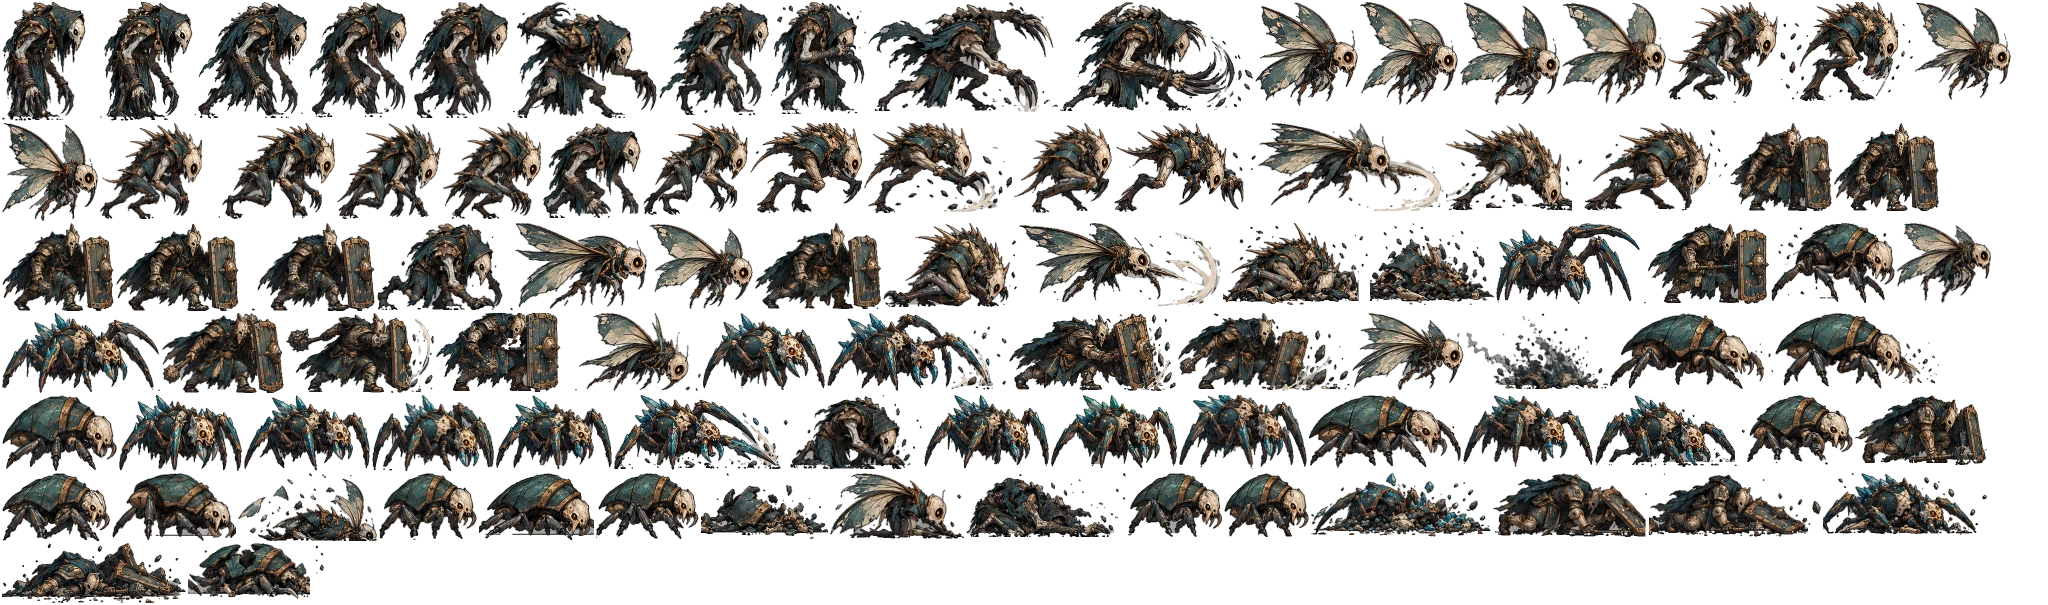
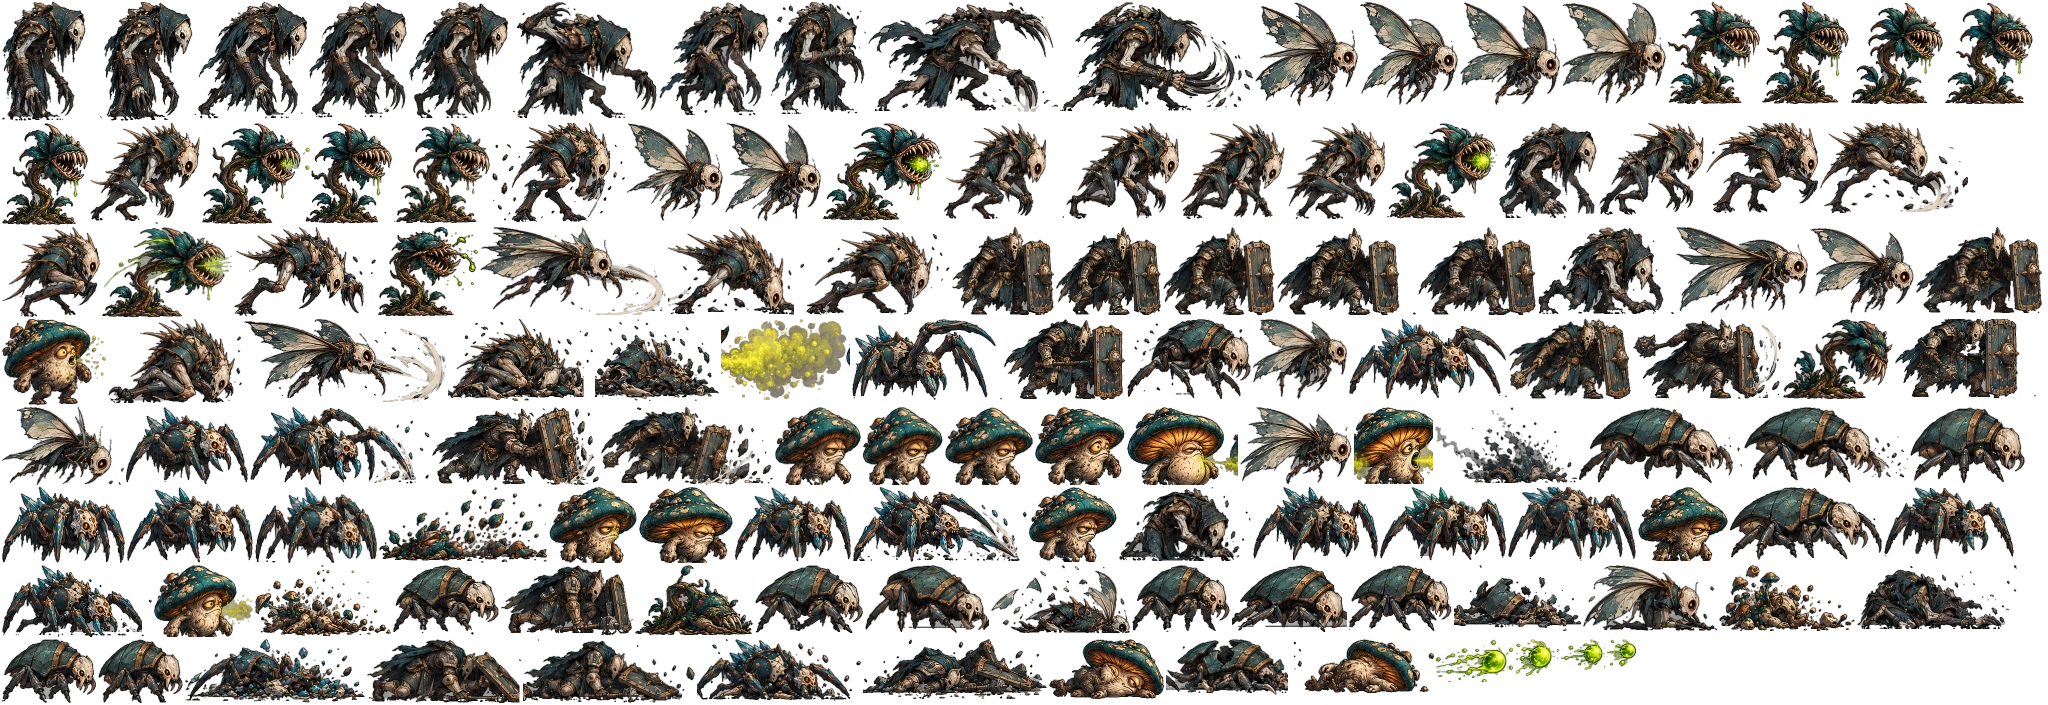
Spitter and walking shroom drawn frame by frame, with their glob and spore cloud
The spitter sways, gathers its spit while it aims and spits; the shroom swells through its
wind-up and breathes its cloud. Their projectiles are drawn from the sheet too. Creatures can now
have their own frame-choosing brain in js/art_anims.js. Also keeps the owner's ten sheets for the
remaining creatures.

diff --git a/duskwell/js/creature_anims_meta.js b/duskwell/js/creature_anims_meta.js
@@ -1,4 +1,5 @@
 'use strict';
 // made by tools/sprites/cut_anims.py: the animation frames of the creatures drawn by the owner, in art/creatures/anim.webp
-// [x, y, w, h, ax, ay]: (ax, ay) is the ground point under the body
-const CREATURE_ANIMS = {"husk":{"idle":[[2,2,100,119,40.5,118.5],[104,2,92,119,42.5,118.5]],"walk":[[198,2,109,117,60.5,116.5],[309,2,98,116,52.0,116.0],[409,2,106,116,52.0,116.5],[659,2,110,114,63.0,114.0]],"atk":[[517,2,140,116,59.5,116.0],[1060,2,193,109,80.5,109.0],[868,2,190,110,93.5,108.5],[543,123,98,95,52.5,94.5]],"hurt":[[771,2,95,112,47.5,112.5]],"death":[[377,223,136,87,73.0,87.0],[790,395,132,74,66.0,74.5],[966,473,160,64,54.5,63.5],[1466,313,142,76,69.0,76.5]]},"crawler":{"idle":[[1747,395,106,70,52.5,68.5],[2,473,108,68,55.0,68.5]],"walk":[[596,473,103,66,53.0,66.5],[379,473,98,67,50.5,67.0],[1128,473,94,64,49.0,64.0],[1224,473,85,64,43.0,64.0]],"atk":[[1309,395,152,73,69.0,72.0],[1610,313,163,76,76.0,74.5],[1775,313,164,76,65.0,74.5],[2,395,115,76,57.5,74.5]],"hurt":[[1771,223,124,80,72.0,80.0]],"death":[[112,473,124,68,62.0,66.5],[479,473,115,67,62.0,66.0],[188,543,136,56,63.0,55.5],[701,473,127,66,49.0,63.5]]},"flyer":{"idle":[[1562,2,104,102,54.0,107.5],[1360,2,98,103,48.5,107.5],[1255,2,103,104,51.0,107.5],[1460,2,100,103,47.0,106.5],[1915,2,96,98,48.0,104.0],[2,123,96,98,47.0,101.0]],"walk":[[1562,2,104,102,54.0,107.5],[1360,2,98,103,48.5,107.5],[1255,2,103,104,51.0,107.5],[1460,2,100,103,47.0,106.5],[1915,2,96,98,48.0,104.0],[2,123,96,98,47.0,101.0]],"atk":[[515,223,132,86,65.5,90.0],[1258,123,186,88,73.5,88.5],[1019,223,202,83,75.2,83.0],[649,223,104,86,49.5,90.0]],"hurt":[[1897,223,94,80,45.5,84.0]],"death":[[1352,313,112,77,53.5,80.5],[579,313,122,78,53.5,82.0],[830,473,134,66,58.5,66.0],[238,473,139,68,109.0,69.0]]},"hopper":{"idle":[[1668,2,110,101,65.5,98.5],[100,123,120,96,63.5,97.0]],"walk":[[222,123,113,96,69.5,97.0],[643,123,105,92,64.5,93.0],[337,123,104,96,64.0,97.0],[443,123,98,96,58.5,97.0]],"atk":[[750,123,112,90,68.5,91.5],[1114,123,142,89,71.0,90.5],[864,123,148,90,64.0,91.5],[1446,123,136,88,67.5,87.5],[1014,123,98,90,61.0,90.0]],"hurt":[[1780,2,133,99,76.0,100.5]],"death":[[1584,123,144,88,79.5,89.5],[883,223,134,84,78.0,85.0],[1223,223,145,82,71.0,80.0],[1370,223,124,82,49.5,79.5]]},"spider":{"idle":[[119,395,123,76,60.0,77.0],[703,313,122,78,58.5,77.0]],"walk":[[924,395,125,74,61.0,72.5],[244,395,126,76,61.5,74.5],[1051,395,126,74,64.0,73.5],[496,395,116,75,56.5,74.0]],"atk":[[1496,223,150,81,68.0,81.0],[2,313,158,80,76.0,78.0],[827,313,180,78,70.5,76.0],[614,395,174,75,68.5,74.0],[372,395,122,76,64.0,76.0]],"hurt":[[1179,395,128,74,61.5,73.0]],"death":[[1463,395,130,72,60.0,70.5],[1595,395,150,72,61.0,71.0],[1823,473,164,62,66.0,60.0],[1311,473,180,64,74.5,62.0]]},"warden":{"idle":[[1730,123,102,88,58.0,87.5],[1834,123,105,88,61.5,87.5]],"walk":[[2,223,112,88,64.5,87.5],[116,223,139,88,71.0,87.5],[755,223,126,86,74.0,86.5],[257,223,118,88,67.5,87.5]],"atk":[[162,313,122,80,68.5,80.0],[286,313,148,80,75.5,80.0],[1009,313,167,78,84.0,77.0],[1178,313,172,78,68.0,76.5],[1648,223,121,81,67.0,80.0]],"hurt":[[436,313,141,79,70.5,78.0]],"death":[[1855,395,132,70,71.5,68.0],[1493,473,154,64,72.0,64.0],[1649,473,172,64,69.0,61.5],[2,543,184,60,96.5,57.5]]}};
+// [x, y, w, h, ax, ay]: (ax, ay) is the ground point under the body. CREATURE_EXTRAS: their projectiles, drawn on their own, [x, y, w, h]
+const CREATURE_ANIMS = {"husk":{"idle":[[2,2,100,119,40.5,118.5],[104,2,92,119,42.5,118.5]],"walk":[[198,2,109,117,60.5,116.5],[309,2,98,116,52.0,116.0],[409,2,106,116,52.0,116.5],[659,2,110,114,63.0,114.0]],"atk":[[517,2,140,116,59.5,116.0],[1060,2,193,109,80.5,109.0],[868,2,190,110,93.5,108.5],[1499,123,98,95,52.5,94.5]],"hurt":[[771,2,95,112,47.5,112.5]],"death":[[1538,227,136,87,73.0,87.0],[1119,487,132,74,66.0,74.5],[1857,565,160,64,54.5,63.5],[1435,407,142,76,69.0,76.5]]},"crawler":{"idle":[[393,565,106,70,52.5,68.5],[755,565,108,68,55.0,68.5]],"walk":[[1349,565,103,66,53.0,66.5],[1132,565,98,67,50.5,67.0],[2,639,94,64,49.0,64.0],[98,639,85,64,43.0,64.0]],"atk":[[1730,487,152,73,69.0,72.0],[1579,407,163,76,76.0,74.5],[1744,407,164,76,65.0,74.5],[1910,407,115,76,57.5,74.5]],"hurt":[[1127,319,124,80,72.0,80.0]],"death":[[865,565,124,68,62.0,66.5],[1232,565,115,67,62.0,66.0],[1166,639,136,56,63.0,55.5],[1454,565,127,66,49.0,63.5]]},"flyer":{"idle":[[1562,2,104,102,54.0,107.5],[1360,2,98,103,48.5,107.5],[1255,2,103,104,51.0,107.5],[1460,2,100,103,47.0,106.5],[627,123,96,98,48.0,104.0],[725,123,96,98,47.0,101.0]],"walk":[[1562,2,104,102,54.0,107.5],[1360,2,98,103,48.5,107.5],[1255,2,103,104,51.0,107.5],[1460,2,100,103,47.0,106.5],[627,123,96,98,48.0,104.0],[725,123,96,98,47.0,101.0]],"atk":[[1676,227,132,86,65.5,90.0],[480,227,186,88,73.5,88.5],[244,319,202,83,75.2,83.0],[1810,227,104,86,49.5,90.0]],"hurt":[[1253,319,94,80,45.5,84.0]],"death":[[1240,407,112,77,53.5,80.5],[2,407,122,78,53.5,82.0],[1583,565,134,66,58.5,66.0],[991,565,139,68,109.0,69.0]]},"hopper":{"idle":[[90,123,110,101,65.5,98.5],[944,123,120,96,63.5,97.0]],"walk":[[1066,123,113,96,69.5,97.0],[1599,123,105,92,64.5,93.0],[1181,123,104,96,64.0,97.0],[1287,123,98,96,58.5,97.0]],"atk":[[1706,123,112,90,68.5,91.5],[234,227,142,89,71.0,90.5],[1820,123,148,90,64.0,91.5],[668,227,136,88,67.5,87.5],[2,227,98,90,61.0,90.0]],"hurt":[[492,123,133,99,76.0,100.5]],"death":[[806,227,144,88,79.5,89.5],[108,319,134,84,78.0,85.0],[448,319,145,82,71.0,80.0],[595,319,124,82,49.5,79.5]]},"spider":{"idle":[[2,487,123,76,60.0,77.0],[126,407,122,78,58.5,77.0]],"walk":[[1253,487,125,74,61.0,72.5],[127,487,126,76,61.5,74.5],[1380,487,126,74,64.0,73.5],[735,487,116,75,56.5,74.0]],"atk":[[852,319,150,81,68.0,81.0],[1349,319,158,80,76.0,78.0],[250,407,180,78,70.5,76.0],[853,487,174,75,68.5,74.0],[255,487,122,76,64.0,76.0]],"hurt":[[1508,487,128,74,61.5,73.0]],"death":[[1884,487,130,72,60.0,70.5],[2,565,150,72,61.0,71.0],[697,639,164,62,66.0,60.0],[185,639,180,64,74.5,62.0]]},"warden":{"idle":[[952,227,102,88,58.0,87.5],[1056,227,105,88,61.5,87.5]],"walk":[[1163,227,112,88,64.5,87.5],[1277,227,139,88,71.0,87.5],[1916,227,126,86,74.0,86.5],[1418,227,118,88,67.5,87.5]],"atk":[[1509,319,122,80,68.5,80.0],[1633,319,148,80,75.5,80.0],[432,407,167,78,84.0,77.0],[601,407,172,78,68.0,76.5],[1004,319,121,81,67.0,80.0]],"hurt":[[1895,319,141,79,70.5,78.0]],"death":[[501,565,132,70,71.5,68.0],[367,639,154,64,72.0,64.0],[523,639,172,64,69.0,61.5],[863,639,184,60,96.5,57.5]]},"spitter":{"idle":[[1668,2,92,102,37.0,101.0],[1762,2,87,102,37.5,101.0]],"walk":[[1851,2,92,102,37.0,101.0],[394,123,96,100,41.5,99.5],[1945,2,88,102,39.5,101.0],[2,123,86,102,37.0,101.0]],"atk":[[202,123,99,101,33.5,100.0],[1387,123,110,96,36.5,94.5],[823,123,119,98,38.5,96.0],[102,227,130,90,38.0,90.0],[303,123,89,101,39.0,99.0]],"hurt":[[378,227,100,89,35.0,88.5]],"death":[[1783,319,110,80,40.0,80.0],[635,565,118,70,62.0,69.5],[379,487,168,76,77.5,73.5]]},"shroom":{"idle":[[549,487,88,76,46.0,73.0],[775,407,86,78,44.0,75.0]],"walk":[[863,407,80,78,39.0,75.0],[945,407,88,78,44.0,75.0],[1638,487,90,74,45.5,71.5],[1029,487,88,75,44.0,72.5]],"atk":[[1035,407,90,78,42.0,75.5],[639,487,94,76,46.5,73.5],[1127,407,111,78,48.5,75.5],[1354,407,79,77,39.5,74.5],[154,565,99,72,44.0,70.0]],"hurt":[[2,319,104,86,45.0,84.5]],"death":[[1049,639,115,60,68.0,59.5],[1304,639,130,54,68.5,52.0],[1719,565,136,66,47.0,63.0],[255,565,136,71,38.0,68.5]]}};
+const CREATURE_EXTRAS = {"spit_0":[1557,639,48,32],"spit_1":[1516,639,39,38],"spit_2":[1607,639,30,28],"spit_fly":[1436,639,78,43],"spores":[721,319,129,81]};

diff --git a/duskwell/js/art_anims.js b/duskwell/js/art_anims.js
@@ -18,7 +18,27 @@ const AnimArt = (() => {
     hopper: { hm: 1.75, wm: 3.0, stride: 9, wind: 0.28, leap: true },
     spider: { hm: 2.15, wm: 2.7, stride: 8, wind: 0.3, leap: true },
     warden: { hm: 1.5, wm: 3.0, stride: 8, wind: 0.55, bash: 0.3 },
+    // from here on each creature has its own brain(e, t, d, A): the frame for what its code is doing (see the helpers below)
+    spitter: { hm: 2.1, wm: 3.4, brain(e, t, d, A) {                 // rooted: it sways; gathers its spit while e.tele counts down, then spits
+      if (d.tele > 0 && !(e.tele > 0)) d.fired = t; d.tele = e.tele;
+      if (d.hurtT > 0) return A.hurt[0];
+      if (e.tele > 0) return seq(A.atk.slice(0, 3), 1 - e.tele / 0.45);
+      const s = since(d.fired, t); if (s < 0.25) return A.atk[3]; if (s < 0.5) return A.atk[4];
+      return loop(A.idle.concat(A.walk), t, 6, (e.x || 0) * 0.013);
+    } },
+    shroom: { hm: 1.85, wm: 2.9, stride: 8, brain(e, t, d, A) {      // swells through its anticipation, breathes its spores after it
+      if (d.hurtT > 0) return A.hurt[0];
+      if (e.currentState === 'anticipation') return seq(A.atk.slice(0, 3), (e.stateT || 0) / 0.5);
+      const s = since(d.fired, t); if (s < 0.4) return A.atk[3]; if (s < 0.65) return A.atk[4];
+      return move(e, d, A, 8);
+    } },
   };
+  // helpers for the brains: a frame along a list by progress k (0..1), a looping list, the time since an event, walking or standing
+  const seq = (list, k) => list[Math.max(0, Math.min(list.length - 1, Math.floor(k * list.length)))];
+  const loop = (list, t, fps, ph) => list[Math.floor(t * fps + (ph || 0)) % list.length];
+  const since = (at, t) => (at == null ? 1e9 : t - at);
+  const move = (e, d, A, stride) => (e.isDummy ? (Math.abs(e.vx || 0) > 8 ? loop(A.walk, d.t, 8) : loop(A.idle, d.t, 2.2))
+    : Math.abs(e.vx || 0) > 8 ? A.walk[Math.floor(d.dist / stride) % A.walk.length] : loop(A.idle, d.t, 2.2, (e.x || 0) * 0.01));
   const ALIAS = { brood_child: 'spider' };
   const scaleOf = (kind, e) => { const c = CFG[kind], f = CREATURE_ANIMS[kind].idle[0]; return Math.min(e.h * c.hm / f[3], e.w * c.wm / f[2]); };
   // the attack row: the wind-up (two frames when the row has five), the strike (two), the recovery (the last)
@@ -61,8 +81,11 @@ const AnimArt = (() => {
     const dt = Math.max(0, Math.min(0.1, t - d.t)); d.t = t;
     d.dist += Math.abs(e.cx - d.x); d.x = e.cx;
     if (e.flash > 0.05 && !e.isDummy) { d.hurtT = 0.18; d.leapT = null; } else d.hurtT -= dt;
-    if (e.currentState !== d.st) { if (d.st === 'anticipation' && c.leap) d.leapT = t; d.st = e.currentState; }   // it has just left the ground to strike
-    const f = d.f = pick(kind, e, t), sc = scaleOf(kind, e), idle = CREATURE_ANIMS[kind].idle[0];
+    if (e.currentState !== d.st) {                                    // a change of state: leaving the wind-up means the blow (or the leap) has come
+      if (d.st === 'anticipation' && e.currentState !== 'recoil') { d.fired = t; if (c.leap) d.leapT = t; }
+      d.prevSt = d.st; d.st = e.currentState; d.stAt = t;
+    }
+    const f = d.f = c.brain ? c.brain(e, t, d, CREATURE_ANIMS[kind]) : pick(kind, e, t), sc = scaleOf(kind, e), idle = CREATURE_ANIMS[kind].idle[0];
     const gy = c.fly ? e.cy + (idle[5] - idle[3] * 0.5) * sc : e.y + e.h + 1;
     if (!c.fly && !e.isDummy && !e.hanging) Pixel.shadow(g, e.cx, e.y + e.h, Math.min(e.w * 1.1, idle[2] * sc * 0.4));
     if (kind === 'spider' && e.hanging) {                                                         // the thread it hangs from
@@ -102,6 +125,25 @@ const AnimArt = (() => {
     }
     const oldFx = Art.drawFx;
     Art.drawFx = function (g, f) { if (f.type === 'corpse') return corpse(g, f); return oldFx(g, f); };
+    // their projectiles: the spitter's glob (it rolls through three frames along its flight), the shroom's cloud of spores
+    const oldProj = Art.drawProj;
+    Art.drawProj = function (g, p, t) {
+      const X = typeof CREATURE_EXTRAS !== 'undefined' ? CREATURE_EXTRAS : {};
+      if (ready() && p.kind === 'glob' && X.spit_0) {
+        const r = X['spit_' + (Math.floor(p.t * 12) % 3)], k = (p.r * 2.9) / r[3];
+        g.save(); g.translate(p.x, p.y); g.rotate(Math.atan2(p.vy || 0, p.vx || 1)); g.imageSmoothingEnabled = true;
+        bloom(g, 0, 0, p.r * 3, '#b6ef6a', 0.25);
+        g.drawImage(img, r[0], r[1], r[2], r[3], -r[2] * k * 0.62, -r[3] * k / 2, r[2] * k, r[3] * k);
+        g.restore(); return;
+      }
+      if (ready() && p.kind === 'cloud' && X.spores) {
+        const r = X.spores, k = clamp(p.t / 0.25, 0.3, 1), a = clamp(p.life / 0.4, 0, 1) * 0.9, w = p.w * 1.35 * k, h = p.h * 1.4 * k;
+        g.save(); g.translate(p.x, p.y); if ((p.vx || 0) < 0) g.scale(-1, 1); g.globalAlpha *= a; g.imageSmoothingEnabled = true;
+        g.drawImage(img, r[0], r[1], r[2], r[3], -w / 2, -h / 2, w, h);
+        g.restore(); return;
+      }
+      return oldProj(g, p, t);
+    };
   }
   install();
   // which part of the sheet a frame comes from ('walk', 'atk'...) and its number there: for the tests

diff --git a/duskwell/tools/sprites/cut_anims.py b/duskwell/tools/sprites/cut_anims.py
@@ -17,7 +17,7 @@ from cutsheet import segment
 cfg = json.load(open(os.path.join(HERE, 'creature_anims.json')))
 SPLIT = {1: lambda n: (n // 2, n - n // 2)}
 
-def frames_of_row(im, fg, y0, y1, N, cuts=None):
+def frames_of_row(im, fg, y0, y1, N, cuts=None, base=False):
     band = fg[y0:y1].copy(); sub = im[y0:y1]
     H, W = band.shape
     hsv = cv2.cvtColor(sub, cv2.COLOR_BGR2HSV)
@@ -80,7 +80,7 @@ def frames_of_row(im, fg, y0, y1, N, cuts=None):
         x0, x1, yy0, yy1 = xs2.min(), xs2.max() + 1, ys.min(), ys.max() + 1
         rgba = np.dstack([sub[yy0:yy1, x0:x1], (alpha[yy0:yy1, x0:x1] * m[yy0:yy1, x0:x1] * 255).astype(np.uint8)])
         # anchor: under the middle of the torso (the upper part of the body), on the ground line
-        bys, bxs = np.where(bm[:max(1, gl - int((gl - ys.min()) * 0.35))])
+        bys, bxs = np.where(bm[max(0, gl - int((gl - ys.min()) * 0.18)):gl + 1] if base else bm[:max(1, gl - int((gl - ys.min()) * 0.35))])
         ax = (np.median(bxs) if len(bxs) else (x0 + x1) / 2) - x0
         out.append((rgba, float(ax), float(gl - yy0)))
     return out
@@ -88,8 +88,9 @@ def frames_of_row(im, fg, y0, y1, N, cuts=None):
 frames = {}
 for path, mons in cfg['sheets'].items():
     im = cv2.imread(os.path.join(ROOT, path)); fg = segment(im, 20)
+    for (a, b, c, d) in cfg.get('off', {}).get(path, []): fg[b:d, a:c] = False
     for kind, rows in mons.items():
-        rs = [frames_of_row(im, fg, y0, y1, n, cfg['cuts'].get('%s:%d' % (kind, r))) for r, (y0, y1, n) in enumerate(rows)]
+        rs = [frames_of_row(im, fg, y0, y1, n, cfg['cuts'].get('%s:%d' % (kind, r)), kind in cfg.get('anchor_base', [])) for r, (y0, y1, n) in enumerate(rows)]
         r1, r2, r3 = rs
         if kind == 'flyer': anim = {'idle': r1, 'walk': r1}
         else: anim = {'idle': r1[:2], 'walk': r1[2:]}
@@ -100,6 +101,15 @@ for path, mons in cfg['sheets'].items():
             for j, (rgba, ax, ay) in enumerate(fr): cv2.imwrite(os.path.join(d, '%s_%d.png' % (nm, j)), rgba)
 PACK = 0.5                                                                    # frames are stored at half size: still about twice what the game shows
 flat = []
+from cut_world import background, cut as cut_soft
+extras = {}
+for name, (path, box) in cfg.get('extras', {}).items():
+    im = cv2.imread(os.path.join(ROOT, path))
+    p, org = cut_soft(name, None, tuple(box), {'soft': True}, im, background(im))
+    rgba = cv2.cvtColor(np.array(p), cv2.COLOR_RGBA2BGRA)
+    cv2.imwrite(os.path.join(ROOT, 'art', 'source', 'creatures_hd', name + '.png'), rgba)
+    h, w = rgba.shape[:2]; extras[name] = cv2.resize(rgba, (max(1, round(w * PACK)), max(1, round(h * PACK))), interpolation=cv2.INTER_AREA)
+for name, rgba in extras.items(): flat.append(('_x', name, 0, (rgba, rgba.shape[1] / 2, rgba.shape[0] / 2)))
 for kind, anim in frames.items():
     for nm, fr in anim.items():
         if kind == 'flyer' and nm == 'walk': continue
@@ -119,5 +129,6 @@ od = os.path.join(ROOT, 'art', 'creatures'); atlas.save(os.path.join(od, 'anim.w
 meta = {}
 for kind, anim in frames.items():
     meta[kind] = {nm: [pos[(kind, 'idle' if (kind == 'flyer' and nm == 'walk') else nm, j)] for j in range(len(fr))] for nm, fr in anim.items()}
-open(os.path.join(ROOT, 'js', 'creature_anims_meta.js'), 'w').write("'use strict';\n// made by tools/sprites/cut_anims.py: the animation frames of the creatures drawn by the owner, in art/creatures/anim.webp\n// [x, y, w, h, ax, ay]: (ax, ay) is the ground point under the body\nconst CREATURE_ANIMS = " + json.dumps(meta, separators=(',', ':')) + ";\n")
+xmeta = {name: pos[('_x', name, 0)][:4] for name in extras}
+open(os.path.join(ROOT, 'js', 'creature_anims_meta.js'), 'w').write("'use strict';\n// made by tools/sprites/cut_anims.py: the animation frames of the creatures drawn by the owner, in art/creatures/anim.webp\n// [x, y, w, h, ax, ay]: (ax, ay) is the ground point under the body. CREATURE_EXTRAS: their projectiles, drawn on their own, [x, y, w, h]\nconst CREATURE_ANIMS = " + json.dumps(meta, separators=(',', ':')) + ";\nconst CREATURE_EXTRAS = " + json.dumps(xmeta, separators=(',', ':')) + ";\n")
 print(atlas.size, os.path.getsize(os.path.join(od, 'anim.webp')), 'bytes', {k: {n: len(v) for n, v in a.items()} for k, a in frames.items()})
